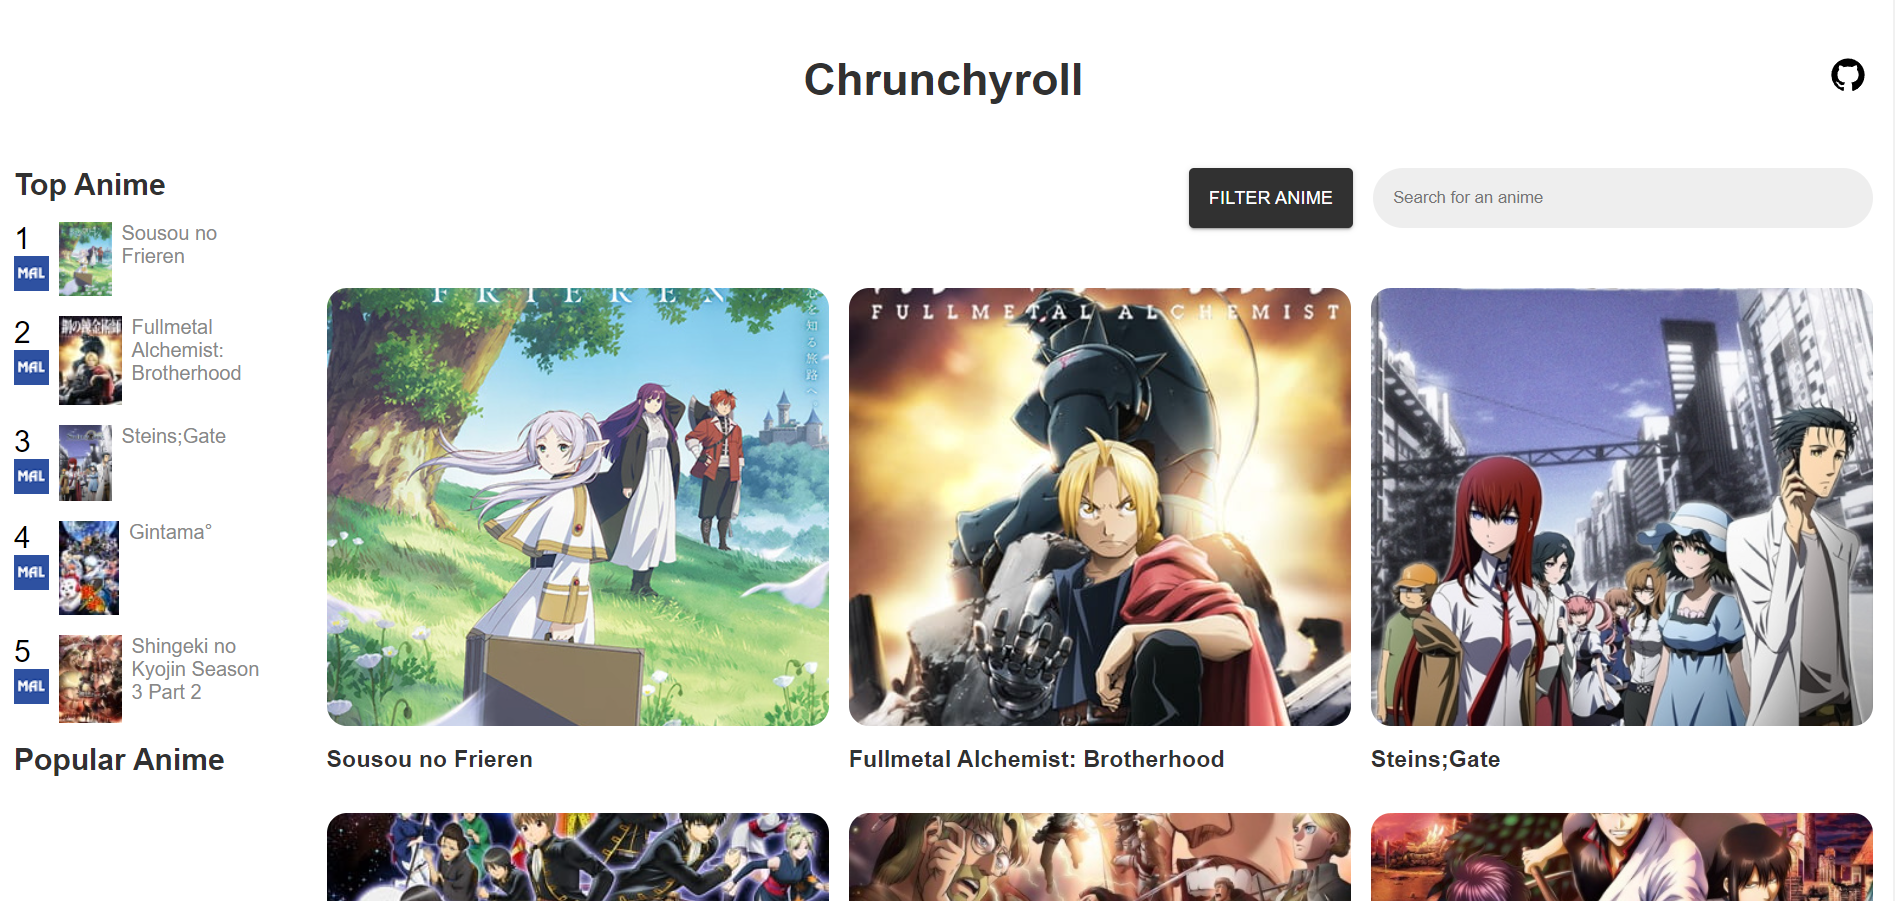
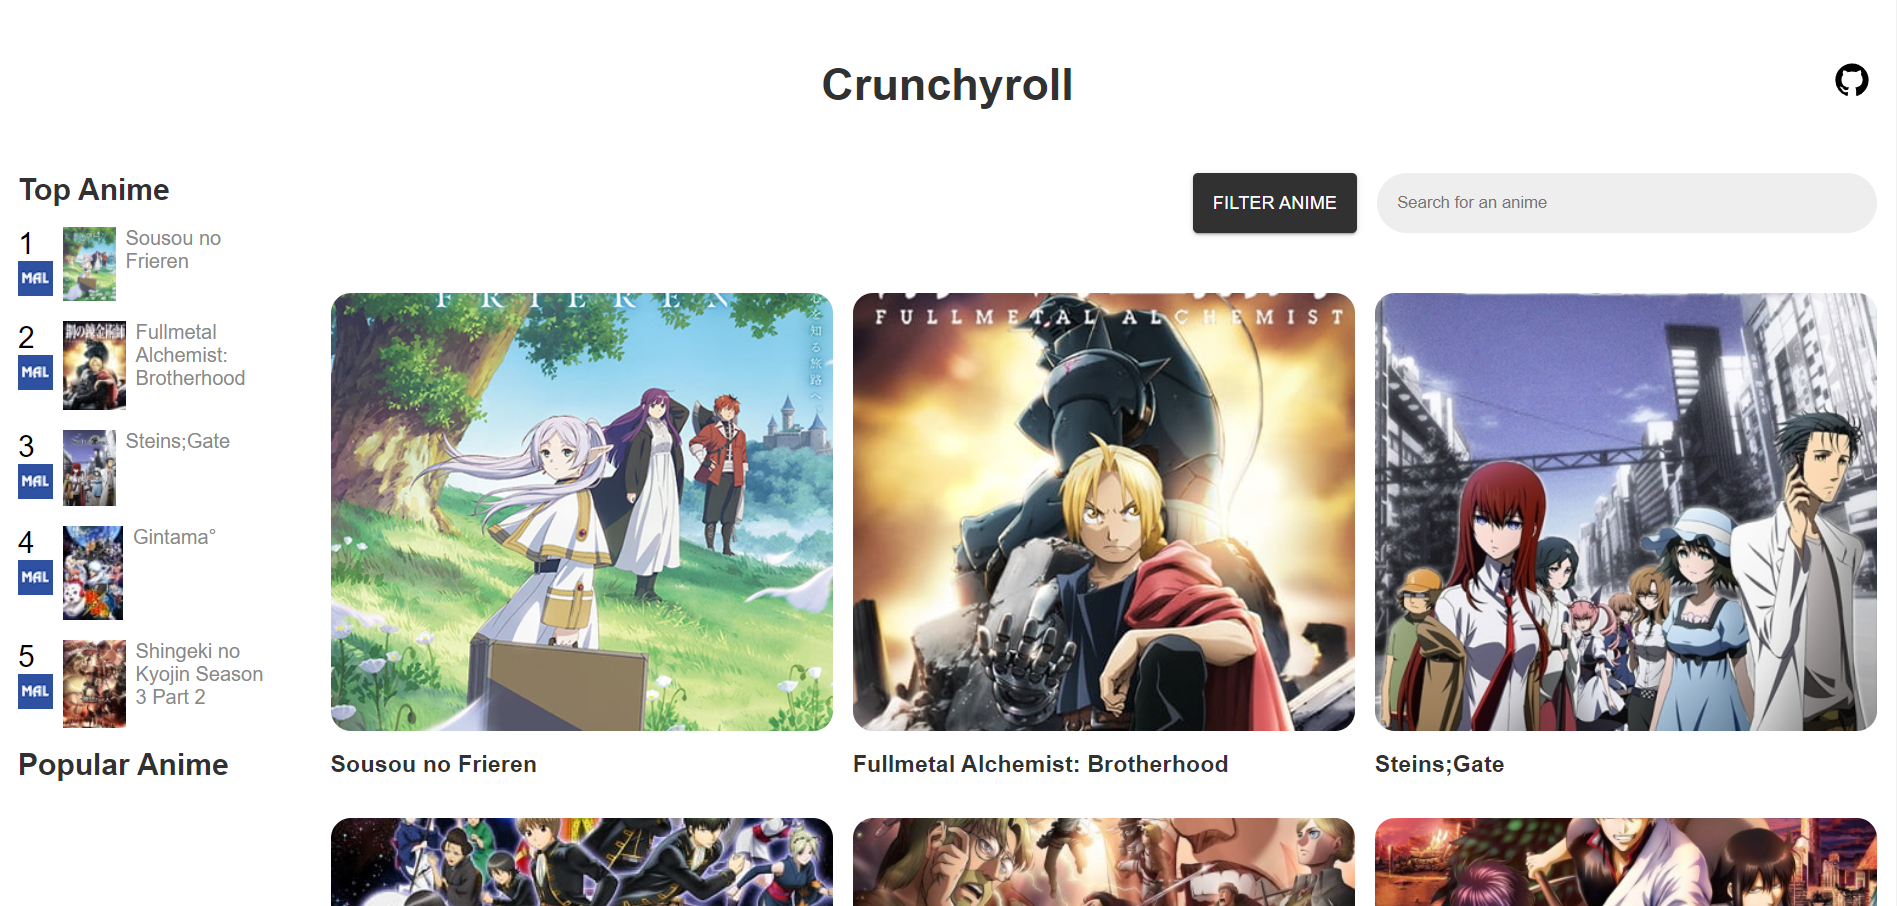
Added Crunchyroll Clone

diff --git a/Projects/Crunchyroll-Clone/src/components/Header.jsx b/Projects/Crunchyroll-Clone/src/components/Header.jsx
@@ -4,7 +4,7 @@ function Header() {
   return (
     <header>
       <h1>
-        <strong>Chrunchyroll</strong>
+        <strong>Crunchyroll</strong>
         <SocialMedia />
       </h1>
     </header>
